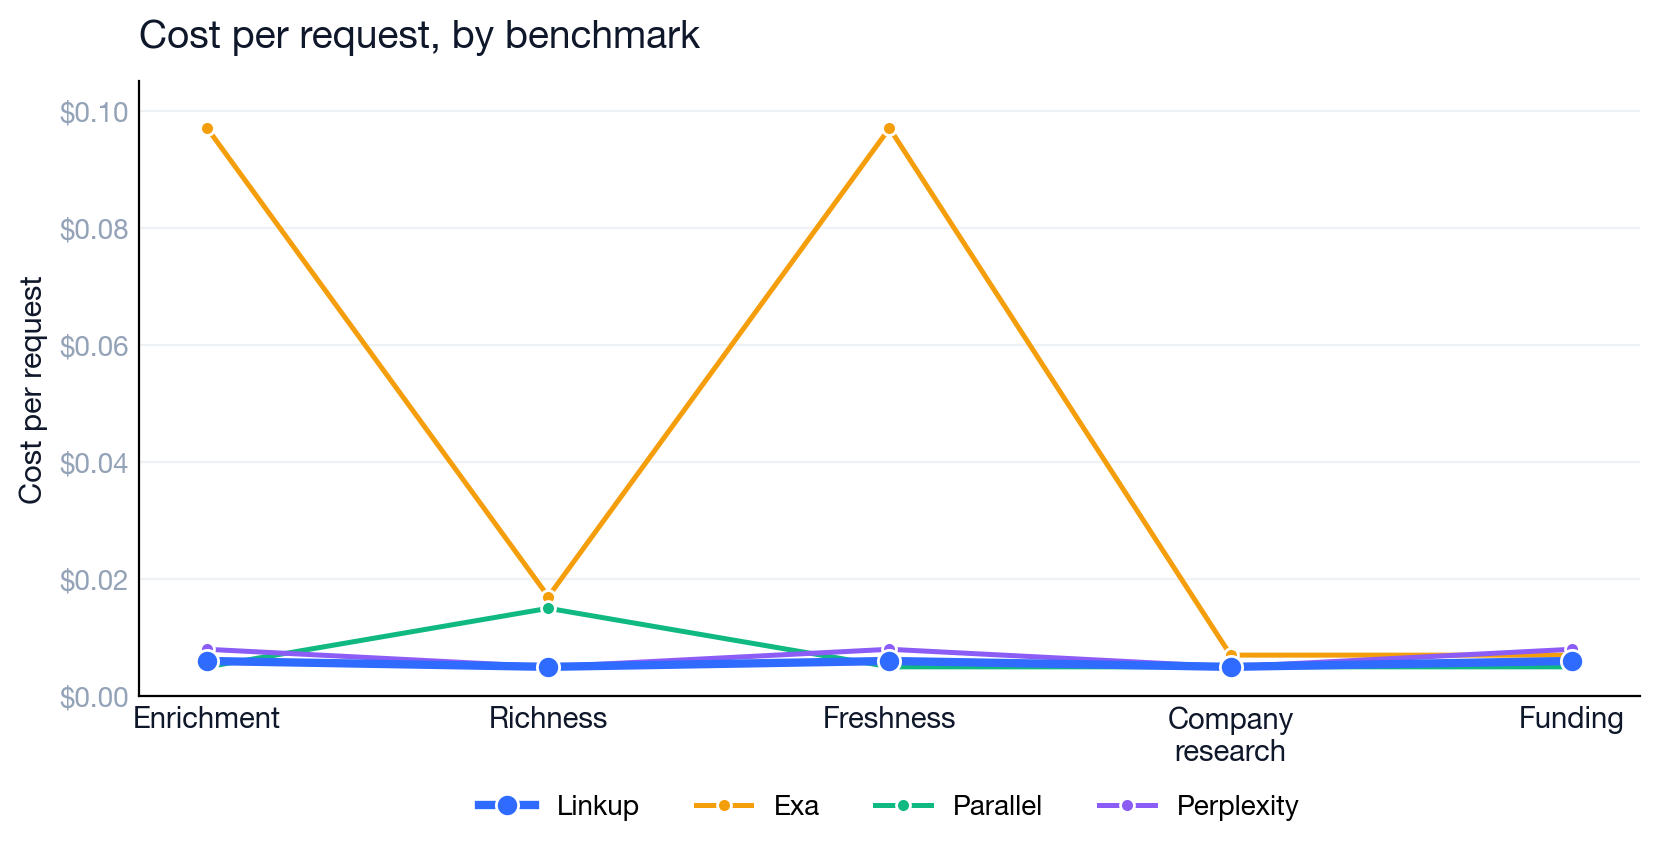
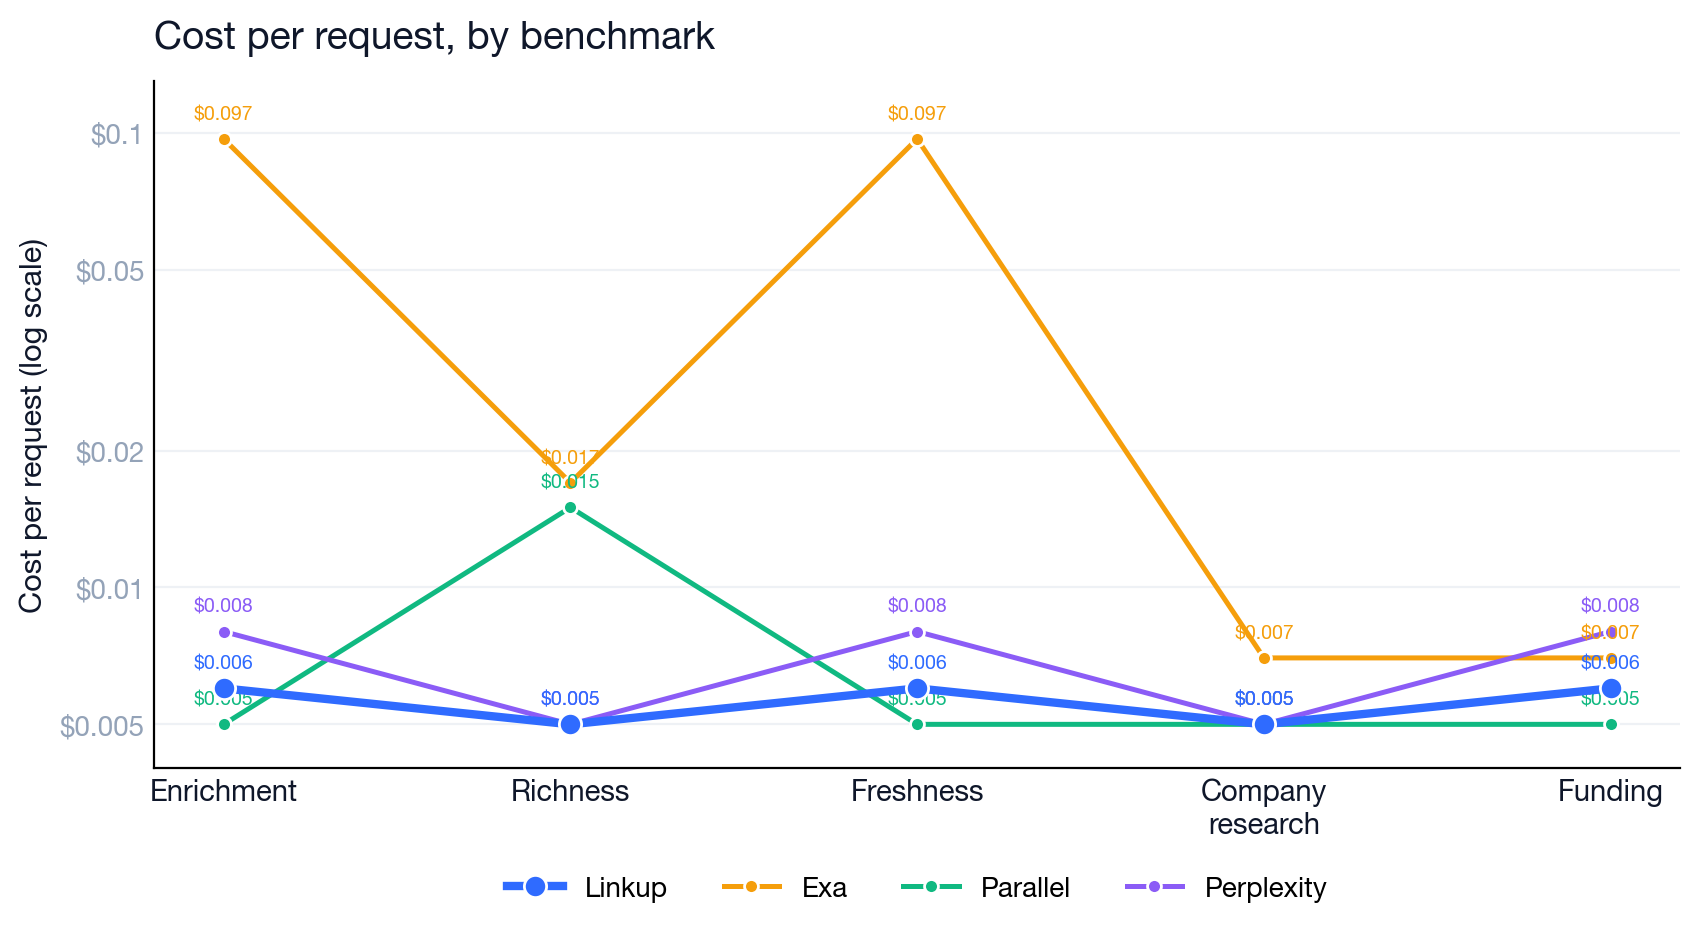
Pricing chart: log scale + value labels so sub-$0.02 costs are visible

diff --git a/assets/make_pricing_charts.py b/assets/make_pricing_charts.py
@@ -42,21 +42,30 @@ STYLE = {  # color, linewidth, marker size, zorder
     "Perplexity": ("#8B5CF6", 1.8, 5, 3),
 }
 
-fig, ax = plt.subplots(figsize=(8.4, 4.4))
+fig, ax = plt.subplots(figsize=(8.6, 4.8))
 x = range(len(BENCHMARKS))
 for name, vals in SERIES.items():
     color, lw, ms, z = STYLE[name]
     ax.plot(x, vals, color=color, linewidth=lw, marker="o", markersize=ms,
             label=name, zorder=z,
             markeredgecolor="white", markeredgewidth=1.0)
+    # value label at each point (above the marker)
+    for xi, v in zip(x, vals):
+        ax.annotate(f"${v:.3f}", (xi, v), textcoords="offset points",
+                    xytext=(0, 7), ha="center", fontsize=7, color=color, zorder=z + 1)
+
+# Log scale so the $0.005-$0.10 range (a 20x spread) is all visible.
+ax.set_yscale("log")
+ax.set_ylim(0.004, 0.13)
+ticks = [0.005, 0.01, 0.02, 0.05, 0.10]
+ax.set_yticks(ticks)
+ax.set_yticklabels([f"${v:.3f}".rstrip("0").rstrip(".") for v in ticks],
+                   fontsize=10, color=SUBTLE)
+ax.minorticks_off()
 
 ax.set_xticks(list(x))
 ax.set_xticklabels(BENCHMARKS, fontsize=10.5, color=INK)
-ax.set_ylim(0, 0.105)
-ax.set_yticks([0, 0.02, 0.04, 0.06, 0.08, 0.10])
-ax.set_yticklabels([f"${v:.2f}" for v in [0, 0.02, 0.04, 0.06, 0.08, 0.10]],
-                   fontsize=10, color=SUBTLE)
-ax.set_ylabel("Cost per request", fontsize=11, color=INK)
+ax.set_ylabel("Cost per request (log scale)", fontsize=11, color=INK)
 ax.set_title("Cost per request, by benchmark", fontsize=14, fontweight="bold",
              color=INK, pad=12, loc="left")
 